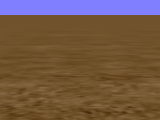
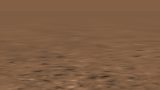
Updated blank worlds updated grounds Added ability to have transparent grounds in blank slate worlds
updated install/deploy files for sound gallery and starter world support

Former-commit-id: 55d5c847131b36b25c780f25777d2282951708a1

diff --git a/core/ide/src/main/java/org/alice/stageide/openprojectpane/models/TemplateUriState.java b/core/ide/src/main/java/org/alice/stageide/openprojectpane/models/TemplateUriState.java
@@ -51,21 +51,29 @@ public class TemplateUriState extends org.lgna.croquet.ImmutableDataSingleSelect
 
 	public static enum Template {
 		GRASS( org.lgna.story.SGround.SurfaceAppearance.GRASS, new org.lgna.story.Color( 150 / 255.0, 226 / 255.0, 252 / 255.0 ) ),
-		SEA_FLOOR( org.lgna.story.SGround.SurfaceAppearance.OCEAN_FLOOR, org.lgna.story.Color.DARK_BLUE, 0.25, org.lgna.story.Color.WHITE, new org.lgna.story.Color( 66 / 255.0, 195 / 255.0, 252 / 255.0 ) ),
-		MOON( org.lgna.story.SGround.SurfaceAppearance.MOON, org.lgna.story.Color.BLACK ),
+		SEA_FLOOR( org.lgna.story.SGround.SurfaceAppearance.OCEAN_FLOOR, new org.lgna.story.Color( 0.0, .431, .859 ), 0.3, org.lgna.story.Color.WHITE, new org.lgna.story.Color( 0, .549, .565 ) ),
+		MOON( org.lgna.story.SGround.SurfaceAppearance.MOON, new org.lgna.story.Color( .11, .133, .178 ), 0, org.lgna.story.Color.WHITE, new org.lgna.story.Color( .0, .118, .396 ) ),
+		MARS( org.lgna.story.SGround.SurfaceAppearance.MARS, new org.lgna.story.Color( .847, .69, .588 ), 0.25, org.lgna.story.Color.WHITE, new org.lgna.story.Color( .541, .2, .0 ) ),
 
-		MARS( org.lgna.story.SGround.SurfaceAppearance.MARS, org.lgna.story.Color.PINK, 0.25, org.lgna.story.Color.WHITE, new org.lgna.story.Color( 11 / 255.0, 0 / 255.0, 24 / 255.0 ) ),
-		SNOW( org.lgna.story.SGround.SurfaceAppearance.SNOW ),
+		SNOW( org.lgna.story.SGround.SurfaceAppearance.SNOW, new org.lgna.story.Color( .82, .941, 1.0 ), 0.22, org.lgna.story.Color.WHITE, org.lgna.story.Color.WHITE ),
 		ROOM( org.lgna.story.SGround.SurfaceAppearance.GRASS, org.lgna.story.SRoom.FloorAppearance.REDWOOD, org.lgna.story.SRoom.WallAppearance.YELLOW, org.lgna.story.Color.WHITE ),
+		WONDERLAND( org.lgna.story.SGround.SurfaceAppearance.DARK_GRASS, new org.lgna.story.Color( 0.0, .0941, .294 ), .1, org.lgna.story.Color.WHITE, new org.lgna.story.Color( .541, 0.0, .125 ) ),
+		SEA_SURFACE( org.lgna.story.SGround.SurfaceAppearance.OCEAN, new org.lgna.story.Color( .659, .902, .922 ), .16, org.lgna.story.Color.WHITE, new org.lgna.story.Color( .0, .424, .761 ), .7 ),
 
-		WONDERLAND( org.lgna.story.SGround.SurfaceAppearance.DARK_GRASS, new org.lgna.story.Color( 0 / 255.0, 24 / 255.0, 75 / 255.0 ), 0, org.lgna.story.Color.WHITE, new org.lgna.story.Color( 25 / 255.0, 0 / 255.0, 0 / 255.0 ) ),
-		SEA_SURFACE( org.lgna.story.SGround.SurfaceAppearance.WATER ),
-		LAGOON_FLOOR( org.lgna.story.SGround.SurfaceAppearance.SAND, new org.lgna.story.Color( 75 / 255.0, 220 / 255.0, 255 / 255.0 ), 0.2, org.lgna.story.Color.WHITE, new org.lgna.story.Color( 0 / 255.0, 26 / 255.0, 60 / 255.0 ) ),
+		LAGOON_FLOOR( org.lgna.story.SGround.SurfaceAppearance.DESERT, new org.lgna.story.Color( .294, .863, 1.0 ), 0.16, org.lgna.story.Color.WHITE, new org.lgna.story.Color( 1.0, .851, 0.0 ) ),
+		SWAMP( org.lgna.story.SGround.SurfaceAppearance.SWAMP, new org.lgna.story.Color( .0667, .118, .122 ), 0.27, org.lgna.story.Color.WHITE, new org.lgna.story.Color( .0, 1.0, .741 ), .7 ),
+		DESERT( org.lgna.story.SGround.SurfaceAppearance.SANDY_DESERT, new org.lgna.story.Color( .886, .831, .51 ), 0.2, org.lgna.story.Color.WHITE, new org.lgna.story.Color( .322, .0745, .0 ) ),
+		DIRT( org.lgna.story.SGround.SurfaceAppearance.ROCKY_BROWN, new org.lgna.story.Color( .514, .376, .278 ), 0, org.lgna.story.Color.WHITE, new org.lgna.story.Color( .384, .0, .22 ) ),
 
-		SWAMP( org.lgna.story.SGround.SurfaceAppearance.SWAMP, new org.lgna.story.Color( .2, .4, 0 ), 0.2, org.lgna.story.Color.WHITE, new org.lgna.story.Color( .2, .4, 0 ) ),
-		DESERT( org.lgna.story.SGround.SurfaceAppearance.DESERT ),
-		DIRT( org.lgna.story.SGround.SurfaceAppearance.DIRT );
+		SEA_SURFACE_NIGHT( org.lgna.story.SGround.SurfaceAppearance.OCEAN_NIGHT, new org.lgna.story.Color( .0, .11, .149 ), .2, org.lgna.story.Color.WHITE, new org.lgna.story.Color( .529, 1.0, .0 ), .5 ),
+		ICE( org.lgna.story.SGround.SurfaceAppearance.ICE, new org.lgna.story.Color( .0, .278, .392 ), .15, org.lgna.story.Color.WHITE, new org.lgna.story.Color( .0, .859, 1.0 ), .7 ),
+		AMAZON( org.lgna.story.SGround.SurfaceAppearance.JUNGLE, new org.lgna.story.Color( .918, 1.0, .471 ), .25, new org.lgna.story.Color( .341, .576, 1.0 ), new org.lgna.story.Color( .0, .00784, .38 ) ),
+		NORTHWEST_ISLAND( org.lgna.story.SGround.SurfaceAppearance.OCEAN, new org.lgna.story.Color( .663, .718, .843 ), .15, org.lgna.story.Color.WHITE, new org.lgna.story.Color( 0, .235, .153 ) ),
 
+		NORTHWEST_FOREST( org.lgna.story.SGround.SurfaceAppearance.FOREST_FLOOR, new org.lgna.story.Color( .427, .533, .51 ), .2 ),
+		MAGIC( org.lgna.story.SGround.SurfaceAppearance.SWAMP, new org.lgna.story.Color( .0667, .118, .125 ), .27, org.lgna.story.Color.WHITE, new org.lgna.story.Color( .169, .231, .29 ), .7 ),
+		GRASSY_DESERT( org.lgna.story.SGround.SurfaceAppearance.DRY_GRASS, new org.lgna.story.Color( .835, .769, .518 ), .13 ),
+		MARS_NIGHT( org.lgna.story.SGround.SurfaceAppearance.MARS, new org.lgna.story.Color( .11, .0824, .255 ), 0.25, org.lgna.story.Color.WHITE, new org.lgna.story.Color( .541, .2, .0 ) );
 		public static Template getSurfaceAppearance( java.net.URI uri ) {
 			if( isValidUri( uri ) ) {
 				String fragment = uri.getFragment();
@@ -94,21 +102,27 @@ public class TemplateUriState extends org.lgna.croquet.ImmutableDataSingleSelect
 		//private final org.lgna.story.Color atmosphereColor;
 		private final org.lgna.story.Color atmosphereColor;
 		private final double fogDensity;
+		private final double groundOpacity;
 		private final org.lgna.story.Color aboveLightColor;
 		private final org.lgna.story.Color belowLightColor;
 		private final boolean isRoom;
 
-		private Template( org.lgna.story.SGround.SurfaceAppearance surfaceAppearance, org.lgna.story.Color atmosphereColor, double fogDensity, org.lgna.story.Color aboveLightColor, org.lgna.story.Color belowLightColor ) {
+		private Template( org.lgna.story.SGround.SurfaceAppearance surfaceAppearance, org.lgna.story.Color atmosphereColor, double fogDensity, org.lgna.story.Color aboveLightColor, org.lgna.story.Color belowLightColor, double groundOpacity ) {
 			this.surfaceAppearance = surfaceAppearance;
 			//this.atmosphereColor = atmosphereColor;
 			this.atmosphereColor = atmosphereColor;
 			this.fogDensity = fogDensity;
+			this.groundOpacity = groundOpacity;
 			this.aboveLightColor = aboveLightColor;
 			this.belowLightColor = belowLightColor;
 			this.isRoom = false;
 			this.floorAppearance = null;
 			this.wallAppearance = null;
 			this.ceilingAppearance = null;
+		}
+
+		private Template( org.lgna.story.SGround.SurfaceAppearance surfaceAppearance, org.lgna.story.Color atmosphereColor, double fogDensity, org.lgna.story.Color aboveLightColor, org.lgna.story.Color belowLightColor ) {
+			this( surfaceAppearance, atmosphereColor, fogDensity, aboveLightColor, belowLightColor, 1.0 );
 		}
 
 		private Template( org.lgna.story.SGround.SurfaceAppearance surfaceAppearance, org.lgna.story.Color atmosphereColor, double fogDensity, org.lgna.story.Color aboveLightColor ) {
@@ -132,6 +146,7 @@ public class TemplateUriState extends org.lgna.croquet.ImmutableDataSingleSelect
 			//this.atmosphereColor = atmosphereColor;
 			this.atmosphereColor = null;
 			this.fogDensity = Double.NaN;
+			this.groundOpacity = 1.0;
 			this.aboveLightColor = null;
 			this.belowLightColor = null;
 			this.isRoom = true;
@@ -181,6 +196,10 @@ public class TemplateUriState extends org.lgna.croquet.ImmutableDataSingleSelect
 
 		public double getFogDensity() {
 			return this.fogDensity;
+		}
+
+		public double getGroundOpacity() {
+			return this.groundOpacity;
 		}
 
 		public java.net.URI getUri() {

diff --git a/core/ide/src/main/java/org/alice/stageide/ast/BootstrapUtilties.java b/core/ide/src/main/java/org/alice/stageide/ast/BootstrapUtilties.java
@@ -270,7 +270,7 @@ public class BootstrapUtilties {
 		return rv;
 	}
 
-	public static org.lgna.project.ast.NamedUserType createProgramType( org.lgna.story.SGround.SurfaceAppearance appearance, org.lgna.story.Color atmosphereColor, double fogDensity, org.lgna.story.Color aboveLightColor, org.lgna.story.Color belowLightColor ) {
+	public static org.lgna.project.ast.NamedUserType createProgramType( org.lgna.story.SGround.SurfaceAppearance appearance, org.lgna.story.Color atmosphereColor, double fogDensity, org.lgna.story.Color aboveLightColor, org.lgna.story.Color belowLightColor, double groundOpacity ) {
 
 		org.lgna.project.ast.UserField groundField = createPrivateFinalField( org.lgna.story.SGround.class, "ground" );
 
@@ -283,11 +283,16 @@ public class BootstrapUtilties {
 		org.lgna.project.ast.JavaMethod setPaintMethod = org.lgna.project.ast.JavaMethod.getInstance( org.lgna.story.SGround.class, "setPaint", org.lgna.story.Paint.class, org.lgna.story.SetPaint.Detail[].class );
 		setupStatements.add( createMethodInvocationStatement( createThisFieldAccess( groundField ), setPaintMethod, createFieldAccess( appearance ) ) );
 
+		if( groundOpacity != 1 ) {
+			org.lgna.project.ast.JavaMethod setGroundOpacityMethod = org.lgna.project.ast.JavaMethod.getInstance( org.lgna.story.SGround.class, "setOpacity", Number.class, org.lgna.story.SetOpacity.Detail[].class );
+			setupStatements.add( createMethodInvocationStatement( createThisFieldAccess( groundField ), setGroundOpacityMethod, new org.lgna.project.ast.DoubleLiteral( groundOpacity ) ) );
+		}
+
 		return createProgramType( modelFields, setupStatements.toArray( new org.lgna.project.ast.ExpressionStatement[ setupStatements.size() ] ), atmosphereColor, fogDensity, aboveLightColor, belowLightColor );
 	}
 
 	//groundAppearance is optional and will cause the program to generate a ground in addition to a room
-	public static org.lgna.project.ast.NamedUserType createProgramType( org.lgna.story.SGround.SurfaceAppearance groundAppearance, org.lgna.story.Paint floorAppearance, org.lgna.story.Paint wallAppearance, org.lgna.story.Paint ceilingAppearance, org.lgna.story.Color atmosphereColor, double fogDensity, org.lgna.story.Color aboveLightColor, org.lgna.story.Color belowLightColor ) {
+	public static org.lgna.project.ast.NamedUserType createProgramType( org.lgna.story.SGround.SurfaceAppearance groundAppearance, org.lgna.story.Paint floorAppearance, org.lgna.story.Paint wallAppearance, org.lgna.story.Paint ceilingAppearance, org.lgna.story.Color atmosphereColor, double fogDensity, org.lgna.story.Color aboveLightColor, org.lgna.story.Color belowLightColor, double groundOpacity ) {
 
 		org.lgna.project.ast.UserField roomField = createPrivateFinalField( org.lgna.story.SRoom.class, "room" );
 		roomField.managementLevel.setValue( org.lgna.project.ast.ManagementLevel.MANAGED );
@@ -342,6 +347,10 @@ public class BootstrapUtilties {
 		if( groundAppearance != null ) {
 			org.lgna.project.ast.JavaMethod setGroundPaintMethod = org.lgna.project.ast.JavaMethod.getInstance( org.lgna.story.SGround.class, "setPaint", org.lgna.story.Paint.class, org.lgna.story.SetPaint.Detail[].class );
 			setupStatements.add( createMethodInvocationStatement( createThisFieldAccess( groundField ), setGroundPaintMethod, createFieldAccess( groundAppearance ) ) );
+			if( groundOpacity != 1 ) {
+				org.lgna.project.ast.JavaMethod setGroundOpacityMethod = org.lgna.project.ast.JavaMethod.getInstance( org.lgna.story.SGround.class, "setOpacity", Number.class, org.lgna.story.SetOpacity.Detail[].class );
+				setupStatements.add( createMethodInvocationStatement( createThisFieldAccess( groundField ), setGroundOpacityMethod, new org.lgna.project.ast.DoubleLiteral( groundOpacity ) ) );
+			}
 		}
 
 		return createProgramType( modelFields, setupStatements.toArray( new org.lgna.project.ast.ExpressionStatement[ setupStatements.size() ] ), atmosphereColor, fogDensity, aboveLightColor, belowLightColor );

diff --git a/core/ide/src/main/java/org/alice/ide/uricontent/BlankSlateProjectLoader.java b/core/ide/src/main/java/org/alice/ide/uricontent/BlankSlateProjectLoader.java
@@ -66,9 +66,9 @@ public class BlankSlateProjectLoader extends UriProjectLoader {
 	protected org.lgna.project.Project load() {
 		org.lgna.project.ast.NamedUserType programType;
 		if( template.isRoom() ) {
-			programType = org.alice.stageide.ast.BootstrapUtilties.createProgramType( template.getSurfaceAppearance(), template.getFloorAppearance(), template.getWallAppearance(), template.getCeilingAppearance(), template.getAtmospherColor(), template.getFogDensity(), template.getAboveLightColor(), template.getBelowLightColor() );
+			programType = org.alice.stageide.ast.BootstrapUtilties.createProgramType( template.getSurfaceAppearance(), template.getFloorAppearance(), template.getWallAppearance(), template.getCeilingAppearance(), template.getAtmospherColor(), template.getFogDensity(), template.getAboveLightColor(), template.getBelowLightColor(), template.getGroundOpacity() );
 		} else {
-			programType = org.alice.stageide.ast.BootstrapUtilties.createProgramType( template.getSurfaceAppearance(), template.getAtmospherColor(), template.getFogDensity(), template.getAboveLightColor(), template.getBelowLightColor() );
+			programType = org.alice.stageide.ast.BootstrapUtilties.createProgramType( template.getSurfaceAppearance(), template.getAtmospherColor(), template.getFogDensity(), template.getAboveLightColor(), template.getBelowLightColor(), template.getGroundOpacity() );
 		}
 		return new org.lgna.project.Project( programType );
 	}

diff --git a/core/story-api/src/main/java/org/lgna/story/SGround.java b/core/story-api/src/main/java/org/lgna/story/SGround.java
@@ -59,7 +59,7 @@ public class SGround extends SThing implements MutableRider, VisualWithPaint {
 		SAND( "sand" ),
 		MARS( "mars" ),
 		DESERT( "desert" ),
-		SANDY_DESERT( "sandy_desert" ),
+		SANDY_DESERT( "desert_brown" ),
 		SNOW( "snow" ),
 		ICE( "ice" ),
 		SWAMP( "swamp" ),
@@ -72,7 +72,15 @@ public class SGround extends SThing implements MutableRider, VisualWithPaint {
 		OCEAN_FLOOR( "underwater" ),
 		MOON( "moon" ),
 		BROWN_SAVANA_GRASS( "brown_savana_grass" ),
-		GREEN_SAVANA_GRASS( "green_savana_grass" );
+		GREEN_SAVANA_GRASS( "green_savana_grass" ),
+		FOREST_FLOOR( "forest_floor_brown" ),
+		RED_FOREST_FLOOR( "forest_floor_red" ),
+		DARK_FOREST_FLOOR( "forest_floor_dark" ),
+		GOLD_COINS( "gold_coins" ),
+		ROCKY_SAND( "rocky_sand" ),
+		ROCKY_BROWN( "rocky_brown" ),
+		WOOD( "wood" ),
+		BRICK( "brick" );
 		private String resourceName;
 
 		SurfaceAppearance( String resourceName ) {
